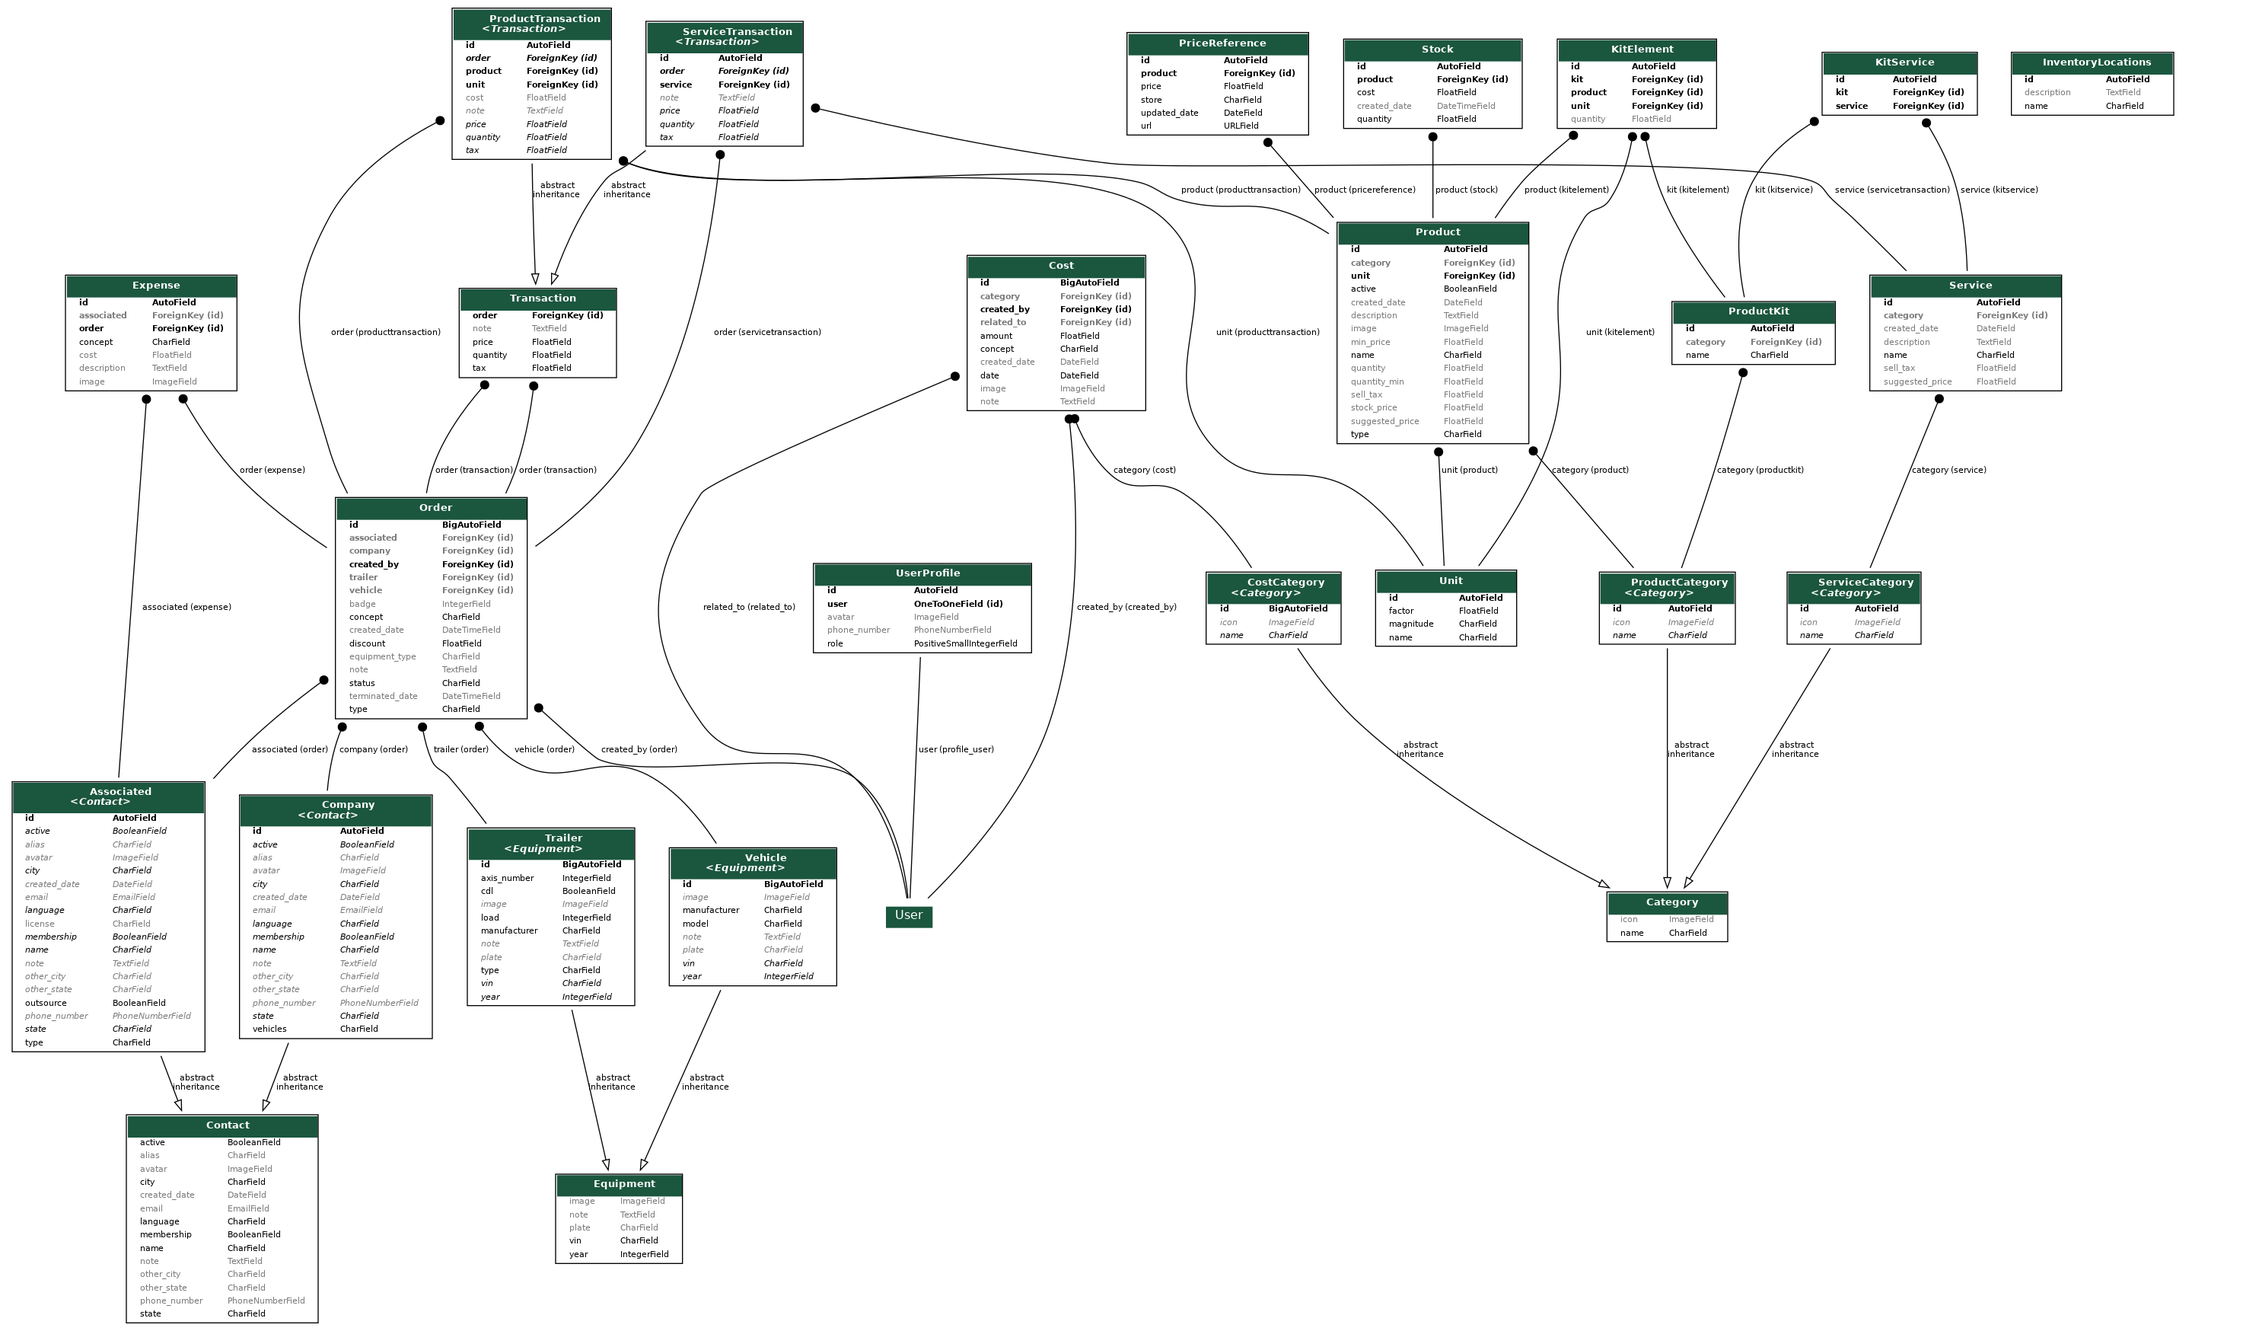
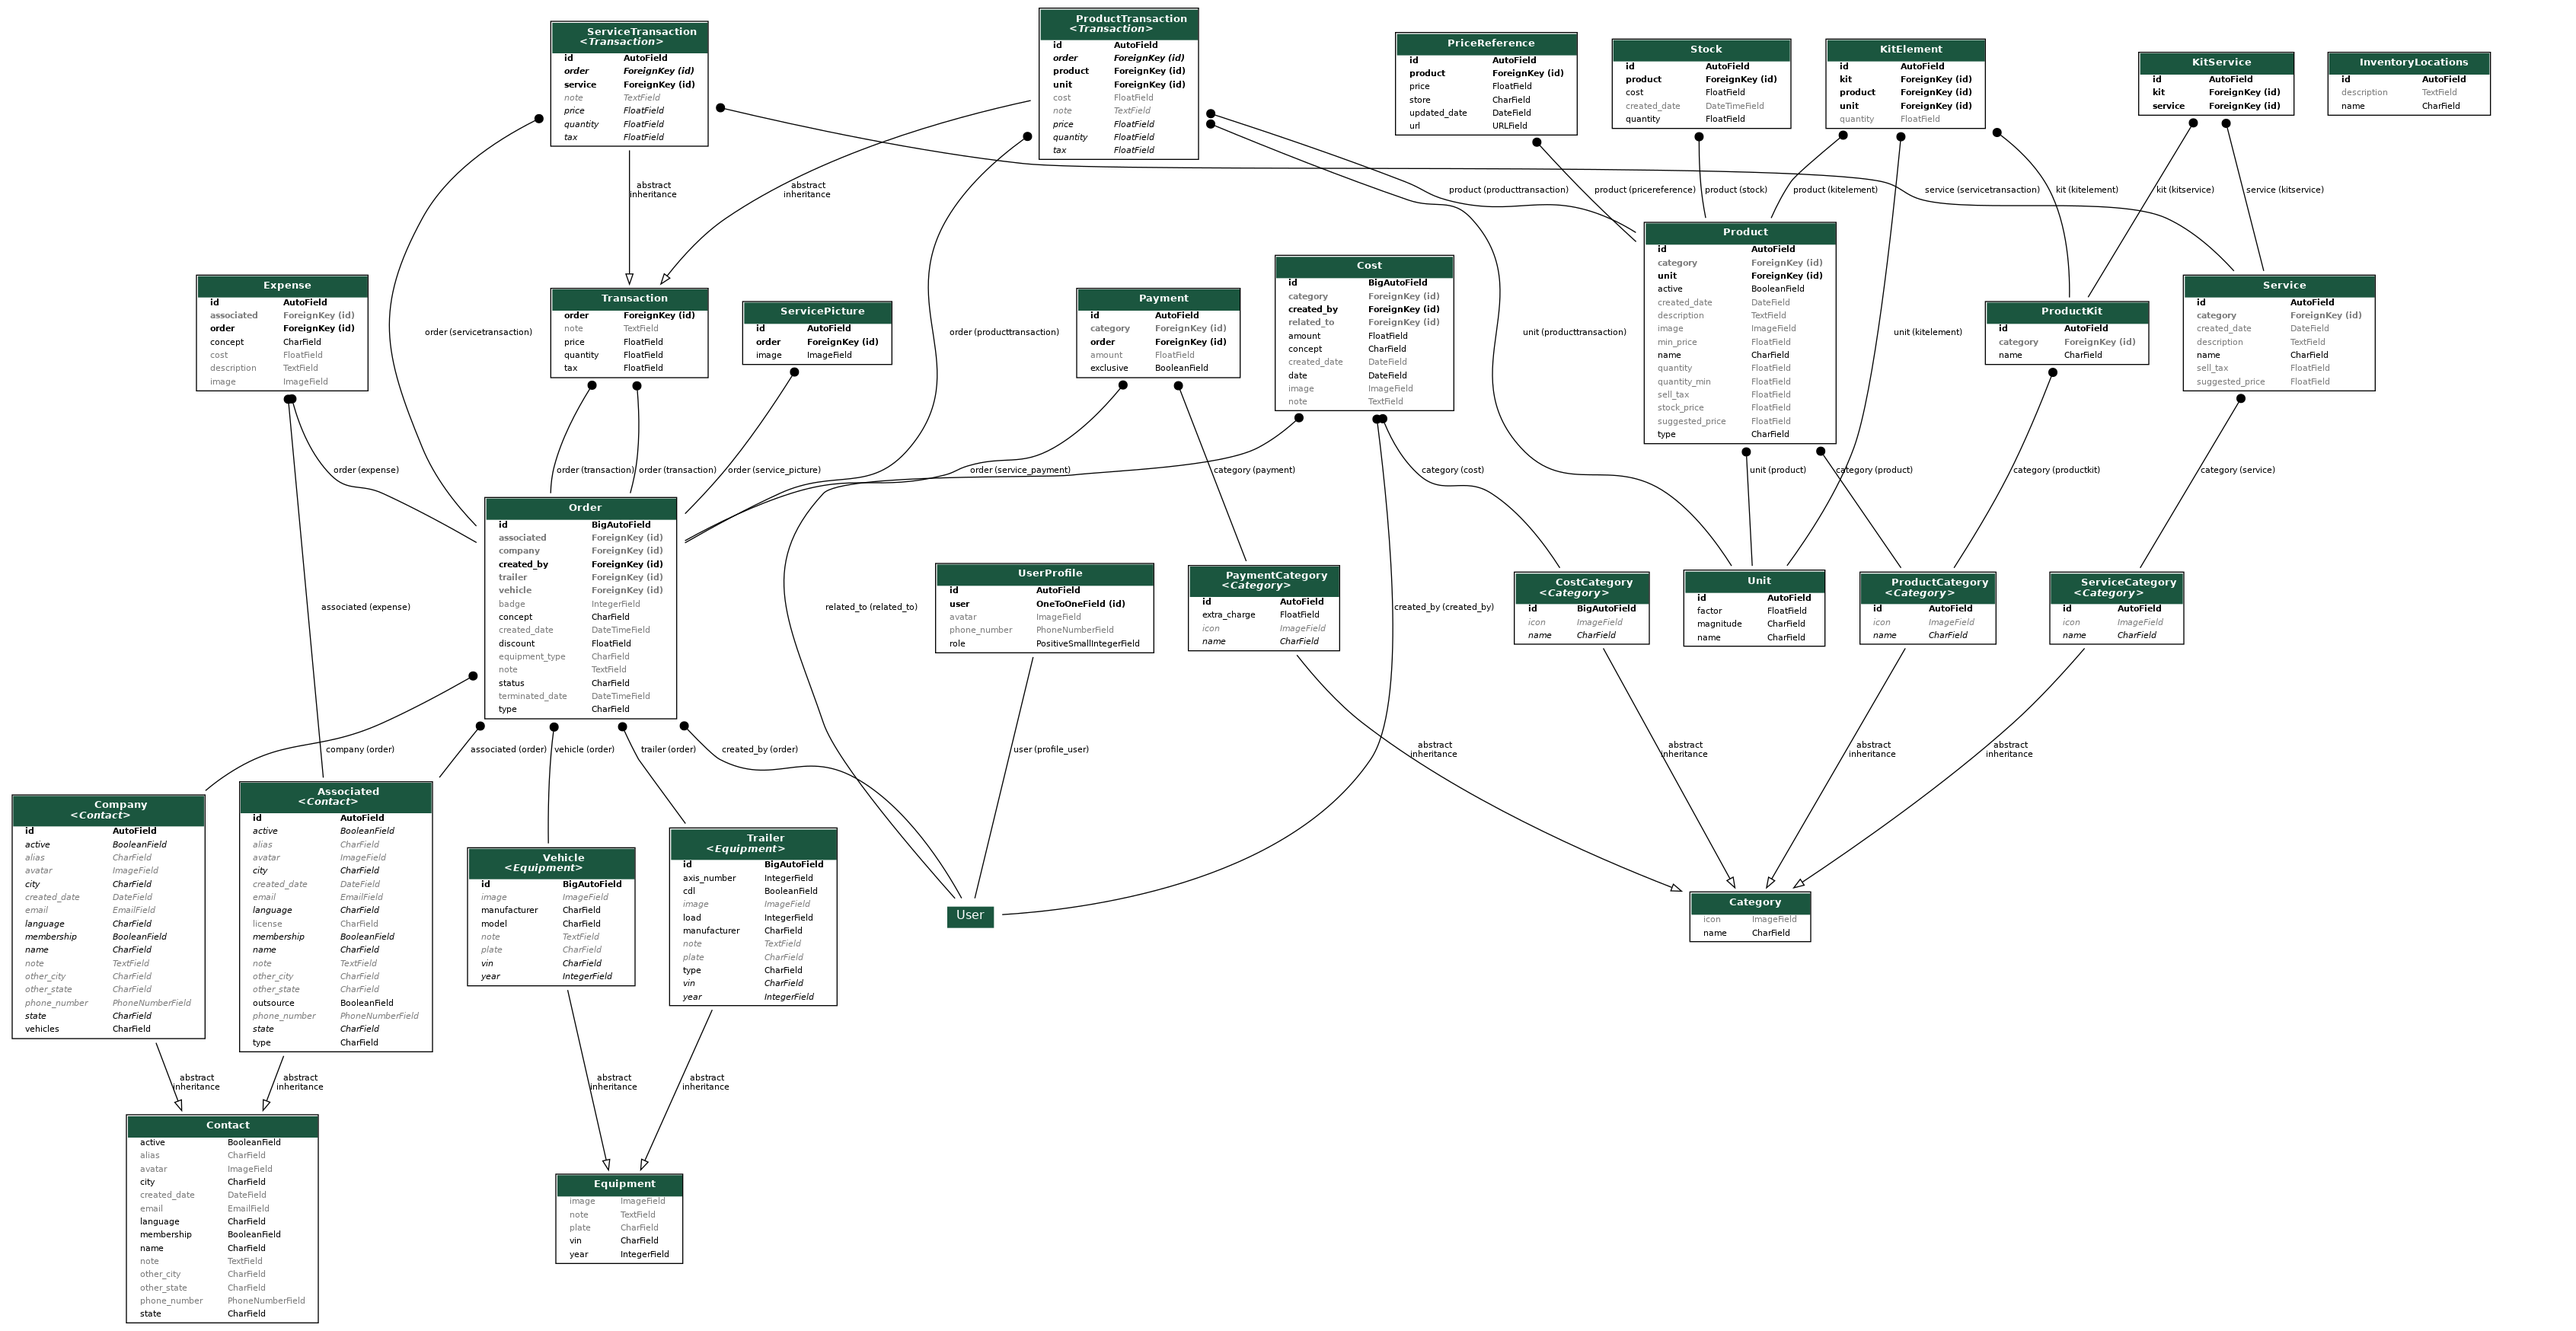
update readme

diff --git a/README.md b/README.md
@@ -29,6 +29,8 @@ The **ProductKit** storage a set of products and services that are usually inclu
 The main model in this application is the **Service**, which includes a description and a suggested price 
 for a given labor. The **ServiceCategory** is used for filtering in the user interface. The **ServiceTransaction** represents a particular labor included in a *service* **Order**. 
 
+Each **Order** has one or several **Payment** associated when completed. **PaymentCategory** divides payments into payment methods. 
+
 The **Expense** model accounts for the Third Party Services required for the given *service* **Order**. 
 
 ![Services UML diagram](https://raw.githubusercontent.com/vladimir1284/gestor/master/services_models.png)
